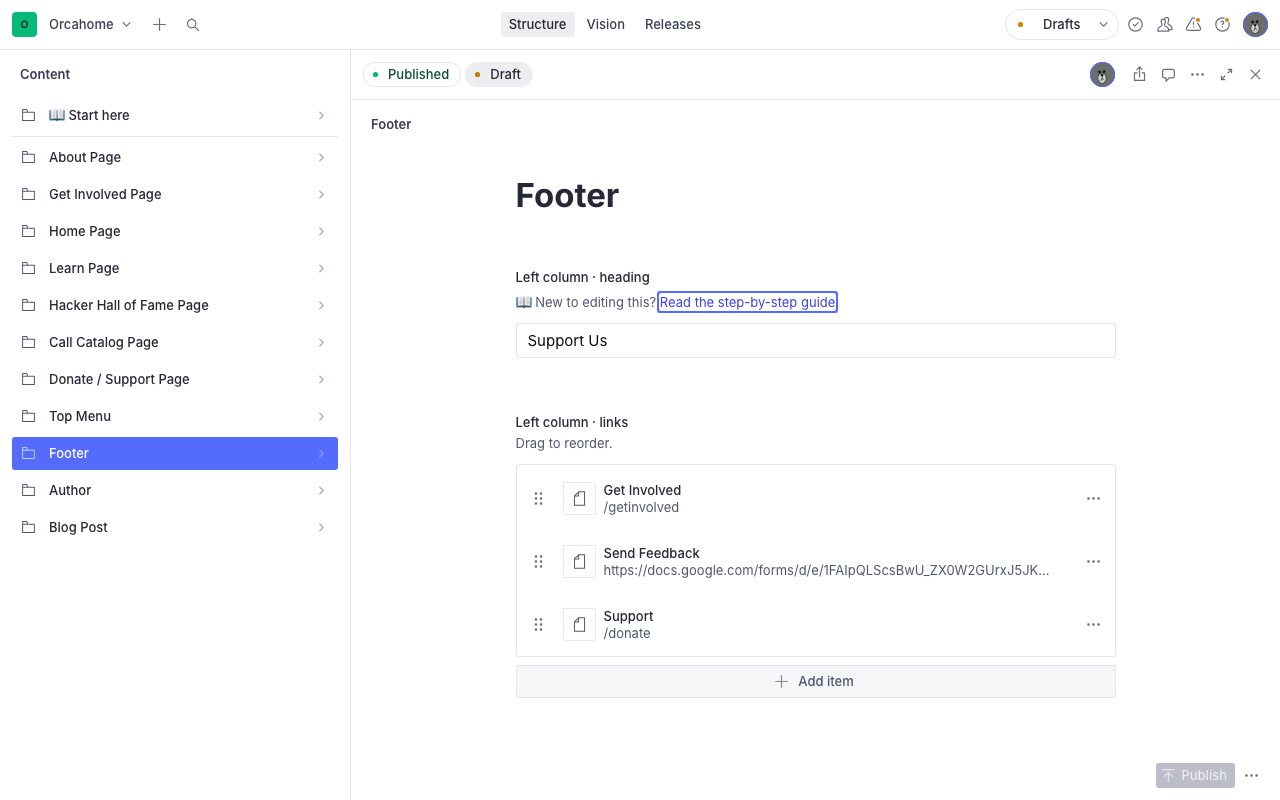
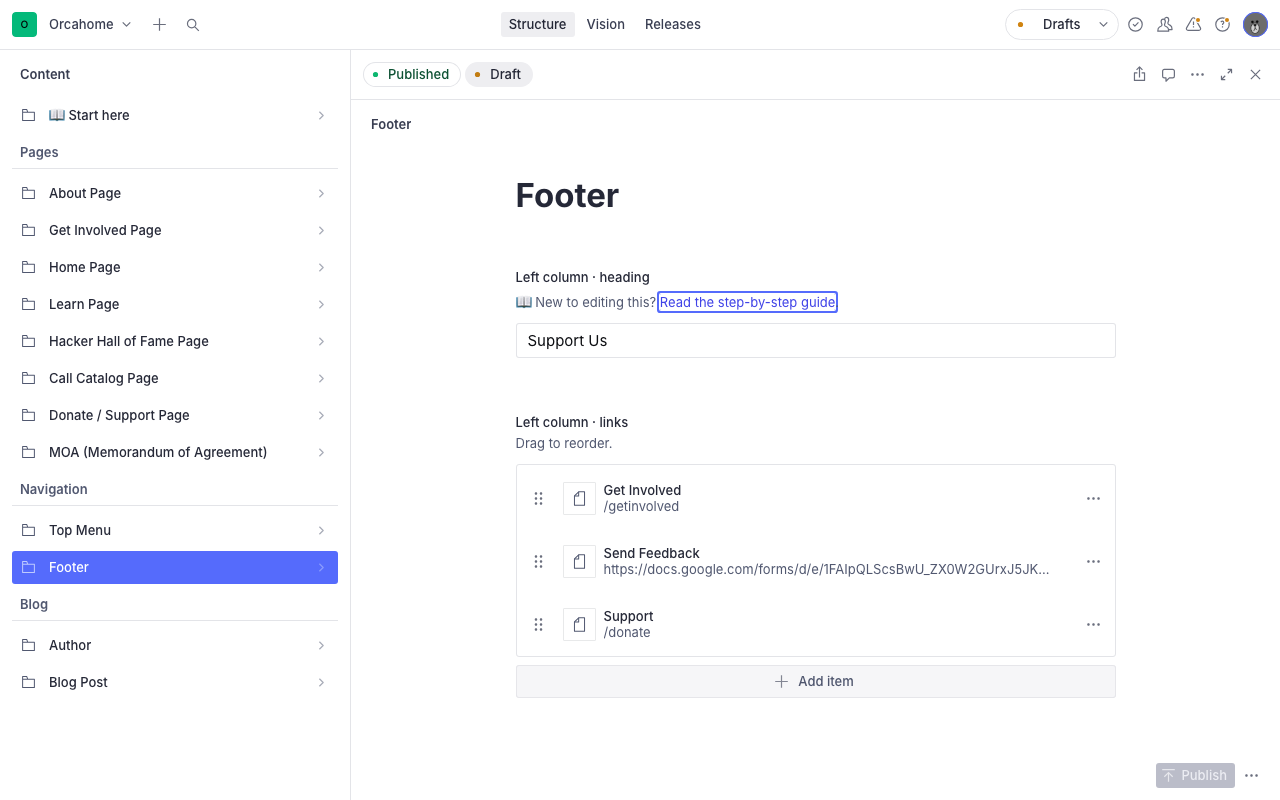
Group the Studio sidebar into Pages, Navigation, and Blog
The sidebar listed every page, the Top Menu, and the Footer in one flat
list. Split it with titled dividers so the site-wide menu and footer sit
under their own "Navigation" heading, separate from page content and
from the blog's posts and authors.

- docs/sanity-guide.md: section 2 now mirrors the sidebar groups, adds a
  Navigation subsection (moved up from a note appended after the
  sign-off), lists the MOA, and tells developers that new pages need the
  siteChrome line.
- docs/editing-navigation-footer.md: point editors to Navigation in the
  sidebar; refresh the two screenshots that show it.
- "Start here" pane mentions the menu and footer.

diff --git a/studio/sanity.config.ts b/studio/sanity.config.ts
@@ -14,10 +14,11 @@ export default defineConfig({
   plugins: [
     structureTool({
       structure: (S) => {
-        // One-of-a-kind pages are pinned as singletons (fixed id, opens
-        // straight to the form, no "create new"). Genuinely multi-doc types
-        // (e.g. `page`) keep the default list.
-        const singletons = [
+        // One-of-a-kind documents are pinned as singletons (fixed id, opens
+        // straight to the form, no "create new"), grouped under titled
+        // dividers: page content, then the site-wide menu and footer.
+        // Genuinely multi-doc types (blog posts, authors) keep the default list.
+        const pageSingletons = [
           {id: 'aboutPage', title: 'About Page'},
           {id: 'getInvolvedPage', title: 'Get Involved Page'},
           {id: 'homePage', title: 'Home Page'},
@@ -26,10 +27,17 @@ export default defineConfig({
           {id: 'catalogPage', title: 'Call Catalog Page'},
           {id: 'donatePage', title: 'Donate / Support Page'},
           {id: 'moaContent', title: 'MOA (Memorandum of Agreement)'},
+        ]
+        const navigationSingletons = [
           {id: 'navigation', title: 'Top Menu'},
           {id: 'footer', title: 'Footer'},
         ]
-        const singletonIds = singletons.map((s) => s.id)
+        const singletonIds = [...pageSingletons, ...navigationSingletons].map((s) => s.id)
+        const singletonItem = (s: {id: string; title: string}) =>
+          S.listItem()
+            .id(s.id)
+            .title(s.title)
+            .child(S.document().title(s.title).schemaType(s.id).documentId(s.id))
         return S.list()
           .title('Content')
           .items([
@@ -42,15 +50,11 @@ export default defineConfig({
                   .id('editingGuide')
                   .title('Editing guide'),
               ),
-            S.divider(),
-            ...singletons.map((s) =>
-              S.listItem()
-                .id(s.id)
-                .title(s.title)
-                .child(
-                  S.document().title(s.title).schemaType(s.id).documentId(s.id),
-                ),
-            ),
+            S.divider().title('Pages'),
+            ...pageSingletons.map(singletonItem),
+            S.divider().title('Navigation'),
+            ...navigationSingletons.map(singletonItem),
+            S.divider().title('Blog'),
             ...S.documentTypeListItems().filter(
               (item) => !singletonIds.includes(item.getId() ?? ''),
             ),

diff --git a/studio/components/EditingGuidePane.tsx b/studio/components/EditingGuidePane.tsx
@@ -17,8 +17,9 @@ export function EditingGuidePane() {
         <Stack space={4}>
           <Heading size={2}>📖 Start here</Heading>
           <Text size={2}>
-            New to editing the site? This Studio is where you change page content
-            and write blog posts. Nothing goes live until you click Publish.
+            New to editing the site? This Studio is where you change page content,
+            edit the site&apos;s top menu and footer, and write blog posts. Nothing goes
+            live until you click Publish.
           </Text>
           <Text size={2}>
             <a href={GUIDE_URL} target="_blank" rel="noreferrer">

diff --git a/docs/sanity-guide.md b/docs/sanity-guide.md
@@ -22,22 +22,34 @@ below.
 
 ---
 
-## 2. Two kinds of content
+## 2. Three kinds of content
 
-### Fixed pages
+The Studio's left sidebar is grouped the same way: **Pages**, **Navigation**,
+and **Blog**.
+
+### Pages
 
 Each main page is a single document in the Studio — you edit its fields (text,
 images, lists). Pick the page you want to edit:
 
-| Page                | Guide                                                            |
-| ------------------- | ---------------------------------------------------------------- |
-| Home                | [editing-home-content.md](editing-home-content.md)               |
-| About               | [editing-about-content.md](editing-about-content.md)             |
-| Learn               | [editing-learn-content.md](editing-learn-content.md)             |
-| Call Catalog        | [editing-catalog-content.md](editing-catalog-content.md)         |
-| Get Involved        | [editing-getinvolved-content.md](editing-getinvolved-content.md) |
-| Hacker Hall of Fame | [editing-hhof-content.md](editing-hhof-content.md)               |
-| Donate / Support    | [editing-donate-content.md](editing-donate-content.md)           |
+| Page                  | Guide                                                            |
+| --------------------- | ---------------------------------------------------------------- |
+| Home                  | [editing-home-content.md](editing-home-content.md)               |
+| About                 | [editing-about-content.md](editing-about-content.md)             |
+| Learn                 | [editing-learn-content.md](editing-learn-content.md)             |
+| Call Catalog          | [editing-catalog-content.md](editing-catalog-content.md)         |
+| Get Involved          | [editing-getinvolved-content.md](editing-getinvolved-content.md) |
+| Hacker Hall of Fame   | [editing-hhof-content.md](editing-hhof-content.md)               |
+| Donate / Support      | [editing-donate-content.md](editing-donate-content.md)           |
+| MOA (on Get Involved) | [editing-getinvolved-content.md](editing-getinvolved-content.md) |
+
+### Navigation (Top Menu and Footer)
+
+The menu at the top of every page and the footer at the bottom of every page
+are edited in two documents under **Navigation**: **Top Menu** and **Footer**.
+You can rename, re-link, reorder, add, and remove links and social icons;
+changes appear on every page. See
+[editing-navigation-footer.md](editing-navigation-footer.md).
 
 ### Blog
 
@@ -87,11 +99,11 @@ Most of the above is content only. A few things do need a developer:
   via `getClient` (`src/sanity/`), with per-field fallback to the built-in
   default, so a page still renders even if a field (or the whole dataset) is
   empty.
+- **Top Menu and Footer** are rendered by the app shell, not a page, so every
+  page's `getStaticProps` also returns `siteChrome` (`src/sanity/siteChrome.ts`),
+  which `_app.tsx` passes to `Layout` → `Nav` / `Footer`. A new page needs that
+  line too, or it shows the built-in menu.
 
 ---
 
 _Questions or something looks broken? ping @Vicky on Zulip._
-
-## Top Menu and Footer
-
-See [Editing the Top Menu and Footer](editing-navigation-footer.md) for shared navigation, footer links, and social icons.

diff --git a/docs/editing-navigation-footer.md b/docs/editing-navigation-footer.md
@@ -15,9 +15,9 @@ layout, and the copyright line. Those stay the same.
 1. Go to **https://orcahome.sanity.studio**
 2. Sign in with the Google account that was given access (ask an admin if you
    can't get in — ping @Vicky on Zulip).
-3. In the left sidebar, click **Top Menu** (or **Footer**).
+3. In the left sidebar, under **Navigation**, click **Top Menu** (or **Footer**).
 
-![The Studio sidebar with "Top Menu" selected](images/navigation-footer-guide/01-top-menu.png)
+![The Studio sidebar with "Top Menu" selected under Navigation](images/navigation-footer-guide/01-top-menu.png)
 
 ---
 
@@ -121,7 +121,7 @@ like menu items. The icons can't be changed.
 
 ## 7. The footer
 
-Click **Footer** in the left sidebar. It has two columns, each with a
+Click **Footer** under **Navigation** in the left sidebar. It has two columns, each with a
 **heading** and a list of **links**. Edit them exactly like the top menu
 (sections 3–5).
 
